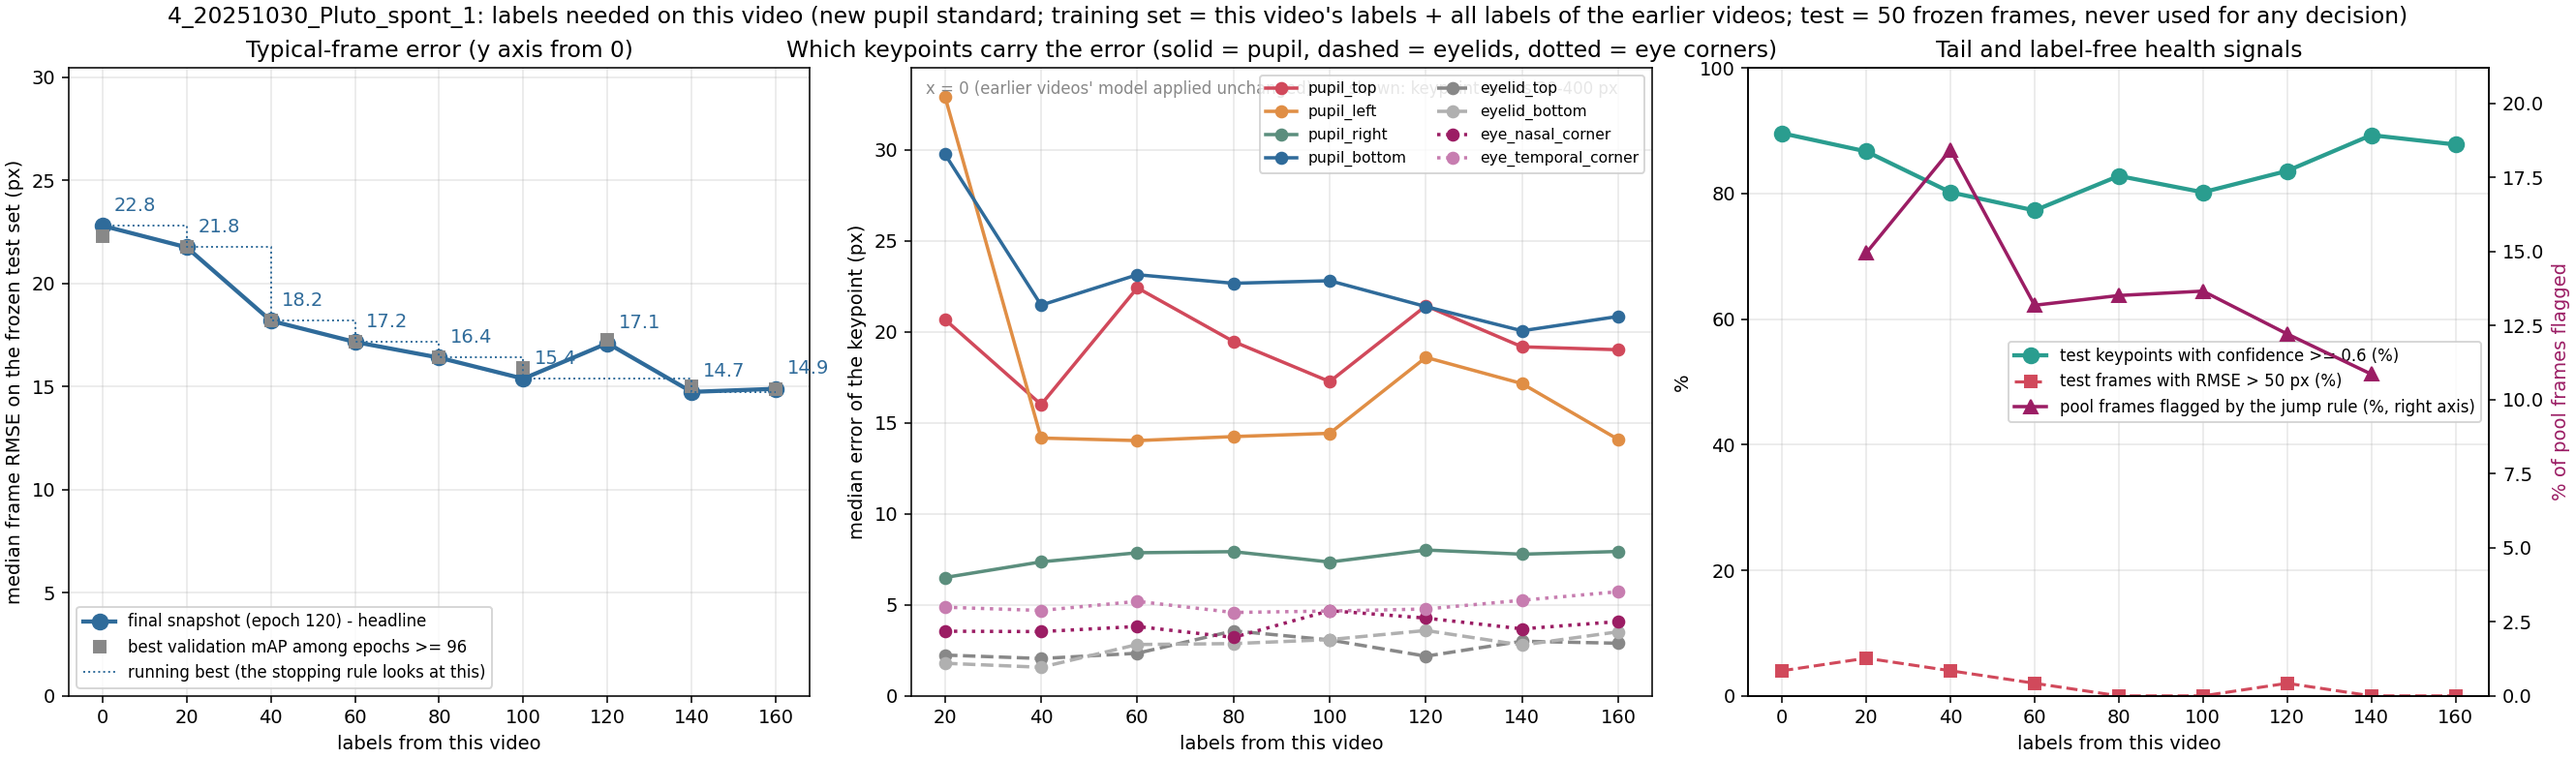
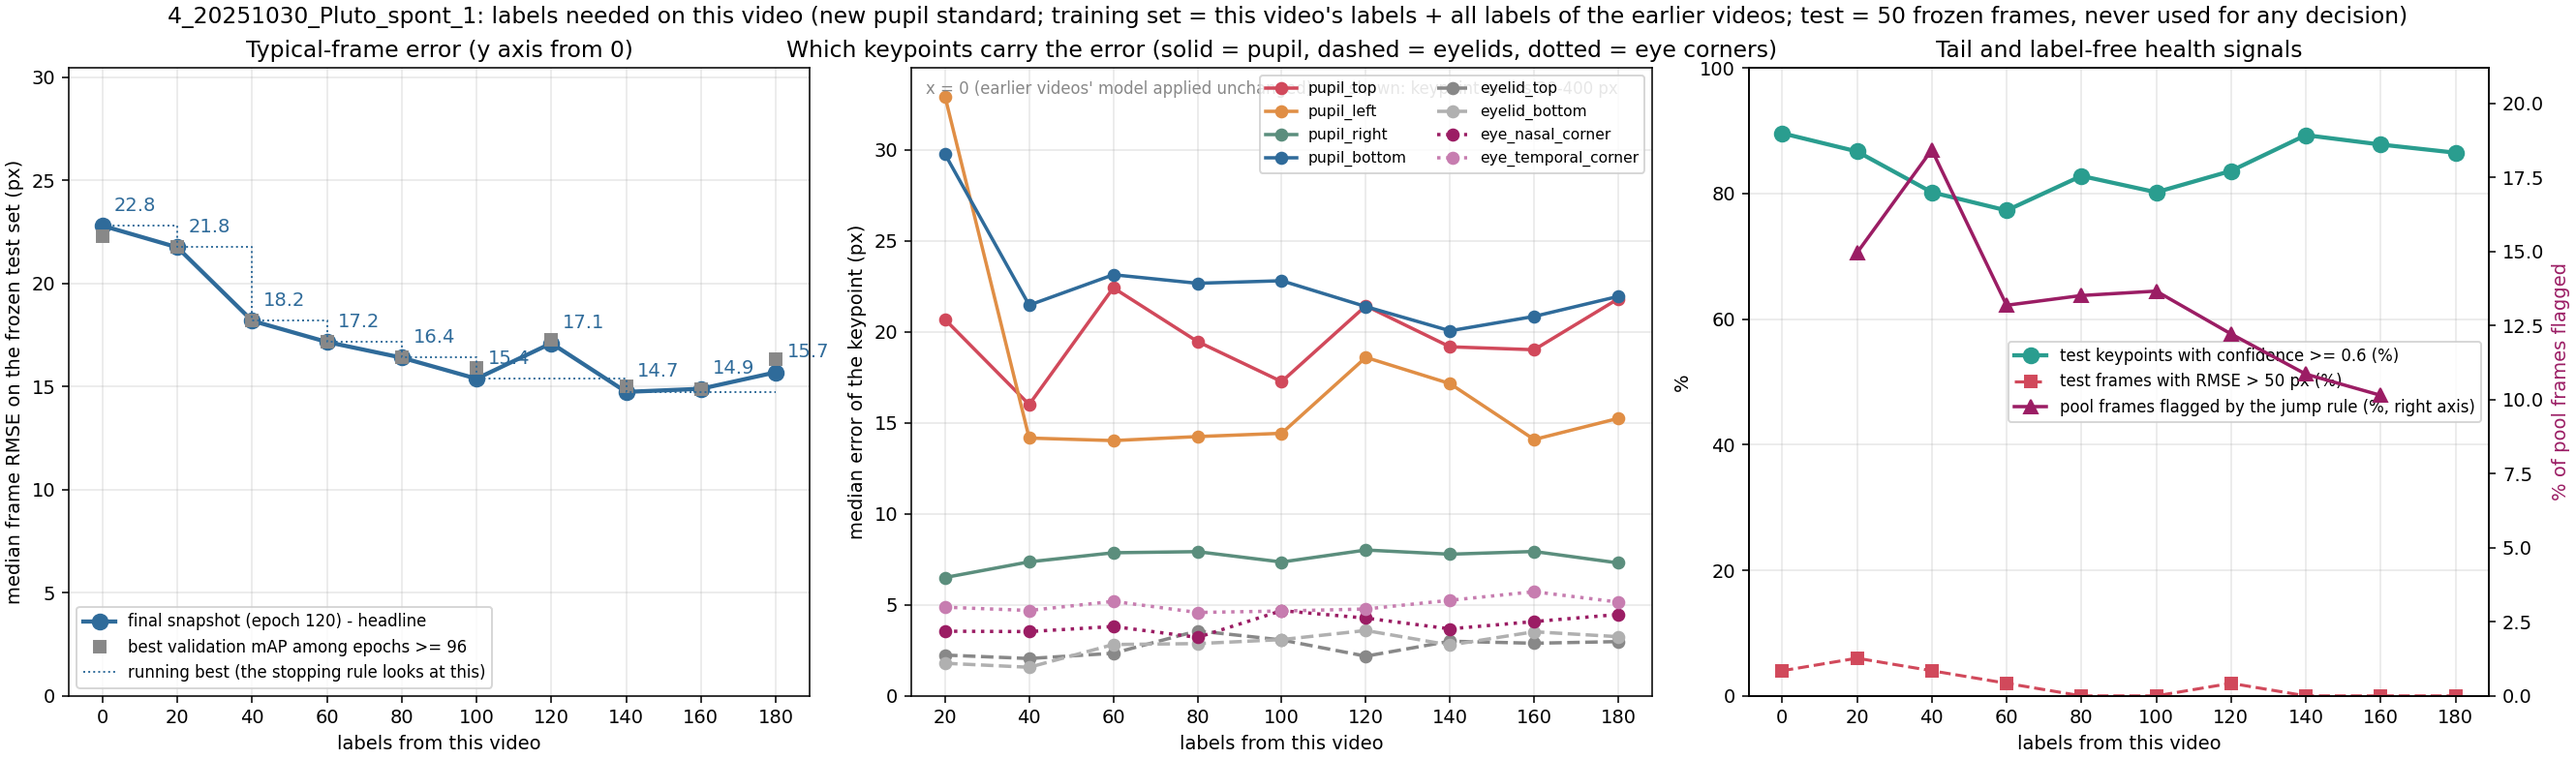
Video 4 (2025-10-30) step 9: 180 labels = 15.69 px; plateau rule fired, plateau at 140 labels (14.74 px)

diff --git a/README.md b/README.md
@@ -8,14 +8,14 @@ how many human labels are needed, and how few frames must a person correct, befo
 Zhiheng Li (University of Minnesota), with Kaiwen Sheng (Stanford). Raw videos, frames, labels, model weights and
 per-frame predictions stay local; git carries code, documentation and audited aggregate results.
 
-## Status (last updated 2026-09-26 00:45 CDT)
+## Status (last updated 2026-09-26 14:10 CDT)
 
 | what | state |
 |---|---|
 | Label standard | era 3 (since 2026-09-20): the pupil is an **ellipse**; its four points are the ellipse endpoints, including the part hidden under the lid |
 | Recipe (frozen) | ResNet-50, batch 2, trained from scratch, 120 epochs, LR drops at 96 / 114; headline = final snapshot, median per-frame RMSE over the 8 keypoints on 50 frozen test frames |
 | Videos done | video 0 (mouse A, 5 min), videos 1-3 (mouse B "Pluto", 2025-10-31) |
-| In progress | **video 4** (Pluto, 2025-10-30, poor image quality): best 14.74 px at 140 labels; 160 labels = 14.89 px (no improvement, first step toward the plateau rule); batch 9 next |
+| In progress | **video 4** (Pluto, 2025-10-30, poor image quality): plateau rule fired: 140 labels = 14.74 px (160: 14.89, 180: 15.69 px did not improve) |
 | Blink / area analysis | per-video time series in `<video>/results/blink_area_analysis/`; across videos (`new_pupil_top_video_scaling/results/blink_area_consistency.png`): 4-point area better on 7 of 8 test sets; lowest pupil confidence < ~0.2 separates all 16 human closed-eye frames (the production 0.6 cut flags ~half of open frames); area correlates with eye opening in every video |
 | Test-set only | videos 5-8 (2025-10-29 / 28 / 27 / 24): frozen test sets scored by every model so far; videos 9 (10-23) and 10 (10-22): test sets being labeled |
 
@@ -29,14 +29,14 @@ Labels needed per video (plateau = two consecutive 20-label steps that improve t
 | 1 | Pluto, 2025-10-31 | 100 | 208 / 10.37 / 12.17 / 11.35 px | 20 labels, 10.4 px |
 | 2 | Pluto, 2025-10-31 | 200 | 9.99 / 7.73 / 7.57 / 7.83 px | 20 labels, 7.7 px |
 | 3 | Pluto, 2025-10-31 | 260 | 4.43 / 3.40 / 3.87 / 3.63 px | 20 labels, 3.4 px |
-| 4 | Pluto, 2025-10-30 (poor quality) | 320 | 22.80 / 21.75 / 18.19 / 17.16 / 16.40 / 15.38 px (120: 17.10, 140: 14.74, 160: 14.89) | not reached yet |
+| 4 | Pluto, 2025-10-30 (poor quality) | 320 | 22.80 / 21.75 / 18.19 / 17.16 / 16.40 / 15.38 px (120: 17.10, 140: 14.74, 160: 14.89, 180: 15.69) | 140 labels, 14.7 px |
 
 What the numbers say:
 
 - **A new mouse needs its own labels**: models trained only on mouse A score 170-350 px on mouse B; 20 mouse-B
   labels bring it to about 10 px.
 - **Same day transfers, a new day does not**: video 3 was at 4.4 px before any of its own labels (thanks to the
-  other 2025-10-31 videos), while video 4 (one day earlier) starts at 22.8 px and is still improving at 100 of its own labels.
+  other 2025-10-31 videos), while video 4 (one day earlier, poor image quality) starts at 22.8 px and needs 140 of its own labels to plateau at 14.7 px.
 - **Adding videos does not hurt old ones**: every model is back-tested on every frozen test set
   (`new_pupil_top_video_scaling/results/cross_video_curves.png`); earlier videos stay flat as labels are added.
 - **Pupil area**: with the new ellipse labels the 4-point area (width x top-to-bottom height) halves the error of

diff --git a/new_pupil_top_video_scaling/results/README.md b/new_pupil_top_video_scaling/results/README.md
@@ -16,7 +16,7 @@ snapshot with the best validation mAP after the first learning-rate drop (epochs
 | 1 `1_20251031_Pluto_spont_1` | mouse B, 19.9 min | 100 (all of video 0) | 208.2 / 10.37 / 12.17 / 11.35 / 11.59 / 10.94 | **20 labels** | 10.37 px |
 | 2 `2_20251031_pluton2` | mouse B, 19.9 min (2nd recording) | 200 (videos 0 + 1) | 9.99 / 7.73 / 7.57 / 7.83 / 7.56 / – | **20 labels** (rule fired at 60; user stopped selecting at 60 labels on 2026-09-23; batch04 was already labeled and was trained + scored, no further selection) | 7.73 px |
 | 3 `3_20251031_pluto3` | mouse B, 19.9 min (3rd recording) | 260 (videos 0 + 1 + 60 of video 2) | 4.43 / 3.40 / 3.87 / 3.63 / – / – | **20 labels** (rule fired at 60) | 3.40 px |
-| 4 `4_20251030_Pluto_spont_1` | mouse B, 19.9 min, 2025-10-30 (poor image quality) | 320 (videos 0-3 as for video 3) | 22.80 / 21.75 / 18.19 / 17.16 / 16.40 / 15.38 / 17.10 (120) / 14.74 (140) / 14.89 (160) | not reached (first non-improving step at 160) | – |
+| 4 `4_20251030_Pluto_spont_1` | mouse B, 19.9 min, 2025-10-30 (poor image quality) | 320 (videos 0-3 as for video 3) | 22.80 / 21.75 / 18.19 / 17.16 / 16.40 / 15.38 / 17.10 (120) / 14.74 (140) / 14.89 (160) / 15.69 (180) | **140 labels** (rule fired at 180) | – |
 
 Notes
 - With 50 test frames the median moves by about 1 px between neighbouring steps from sampling alone, so the

diff --git a/new_pupil_top_video_scaling/4_20251030_Pluto_spont_1/results/README.md b/new_pupil_top_video_scaling/4_20251030_Pluto_spont_1/results/README.md
@@ -21,6 +21,7 @@ k-means, later batches by jump rule + k-means. The video copy is `4_20251030_Plu
 | 120 | 17.10 px | 33.4 | 2% | 84% | 6,984 (12.2%) |
 | 140 | 14.74 px | 34.6 | 0% | 89% | 6,208 (10.9%) |
 | 160 | 14.89 px | 35.6 | 0% | 88% | 5,799 (10.1%) |
+| 180 | 15.69 px | 34.4 | 0% | 86% | (pending: step-9 whole-video prediction) |
 
 Training set of step 1 (shuffle 511): 100 labels of video 0 + 100 of video 1 + 60 of video 2 + 60 of video 3 +
 20 of this video (340 frames); validation = the 20 val frames of this video.
@@ -41,3 +42,7 @@ After step 7 (2026-09-25): 140 labels = 14.74 px, 4.2% better than the previous 
 plateau rule restarts: the running best is now 14.74 px and the rule fires only after two further steps with <= 3% gain.
 
 After step 8: 160 labels = 14.89 px, no improvement over the running best (14.74 px at 140) - first step toward the plateau rule; step 9 (180 labels) decides.
+
+**Plateau rule fired after step 9 (2026-09-26):** neither 160 labels (14.89 px) nor 180 labels (15.69 px) improved the
+running best of 14.74 px by more than 3%, so the plateau point of this video is **140 labels (14.74 px)** - seven times
+the 20 labels the 2025-10-31 videos needed, on a recording whose pupil edge is hard to see even by eye.
